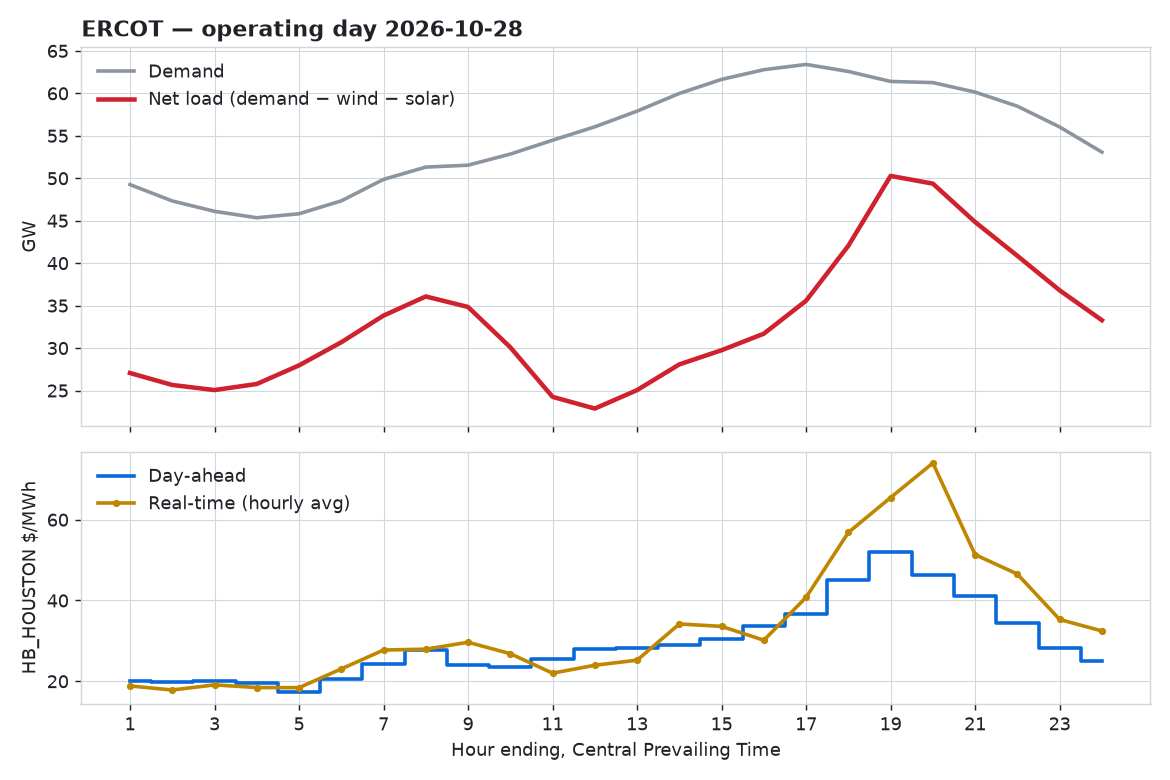
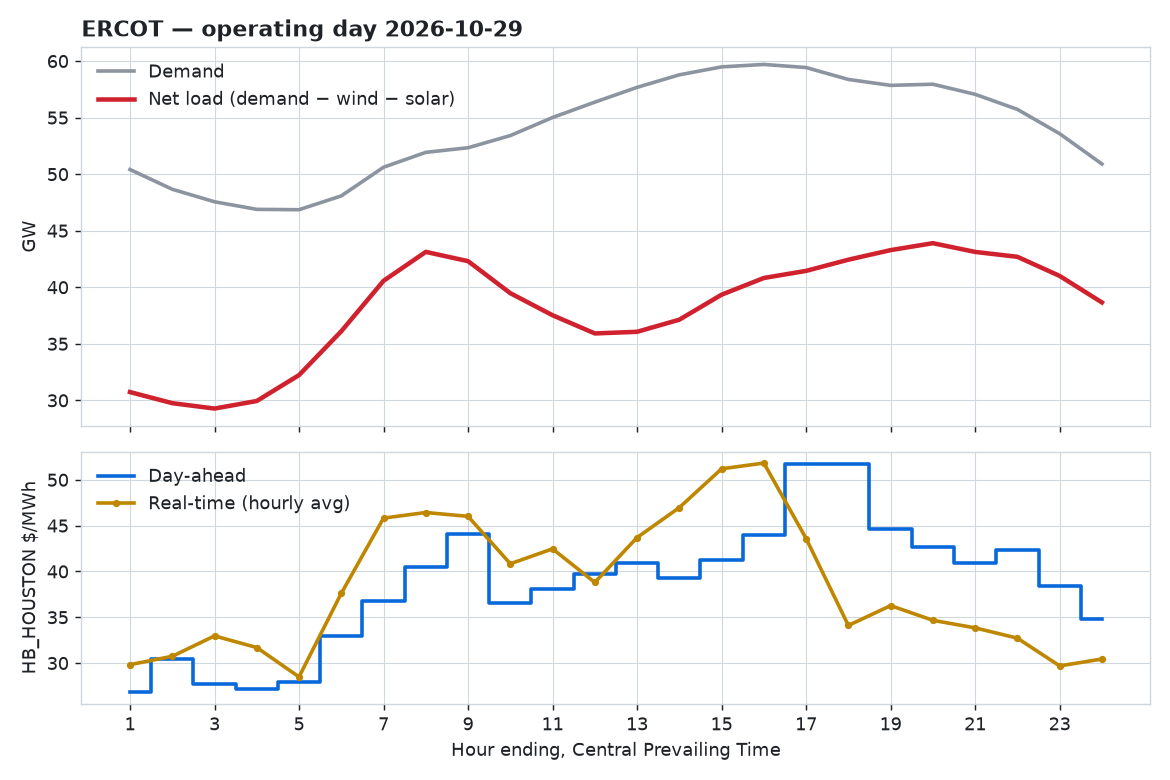
Recap for operating day 2026-10-29

diff --git a/README.md b/README.md
@@ -6,16 +6,16 @@ Yesterday in ERCOT, updated every morning: demand, net load (demand minus
 wind and solar), and the day-ahead versus real-time price at the Houston hub.
 
 <!-- RECAP:START -->
-**Operating day 2026-10-28** (hours ending, Central Prevailing Time)
+**Operating day 2026-10-29** (hours ending, Central Prevailing Time)
 
 <picture>
   <source media="(prefers-color-scheme: dark)" srcset="reports/latest-dark.png">
   <img alt="Yesterday's ERCOT demand, net load and Houston hub prices" src="reports/latest-light.png">
 </picture>
 
-- Demand peaked at **HE17** at 63.4 GW; net load peaked at **HE19** at 50.3 GW.
-- Evening ramp: net load rose **9.3 GW** from HE17 to HE21.
-- HB_HOUSTON: day-ahead averaged \$29.18/MWh, real-time \$33.33/MWh. Widest real-time minus day-ahead spread: **+\$27.78** at HE20.
+- Demand peaked at **HE16** at 59.7 GW; net load peaked at **HE20** at 43.9 GW.
+- Evening ramp: net load rose **1.7 GW** from HE17 to HE21.
+- HB_HOUSTON: day-ahead averaged \$38.39/MWh, real-time \$38.36/MWh. Widest real-time minus day-ahead spread: **−\$17.64** at HE18.
 <!-- RECAP:END -->
 
 ## Why net load
